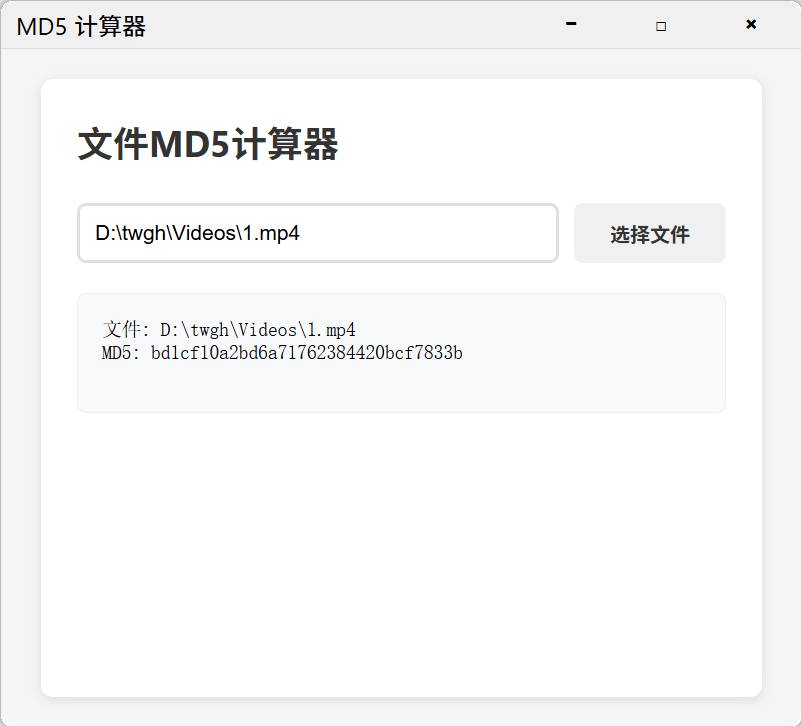
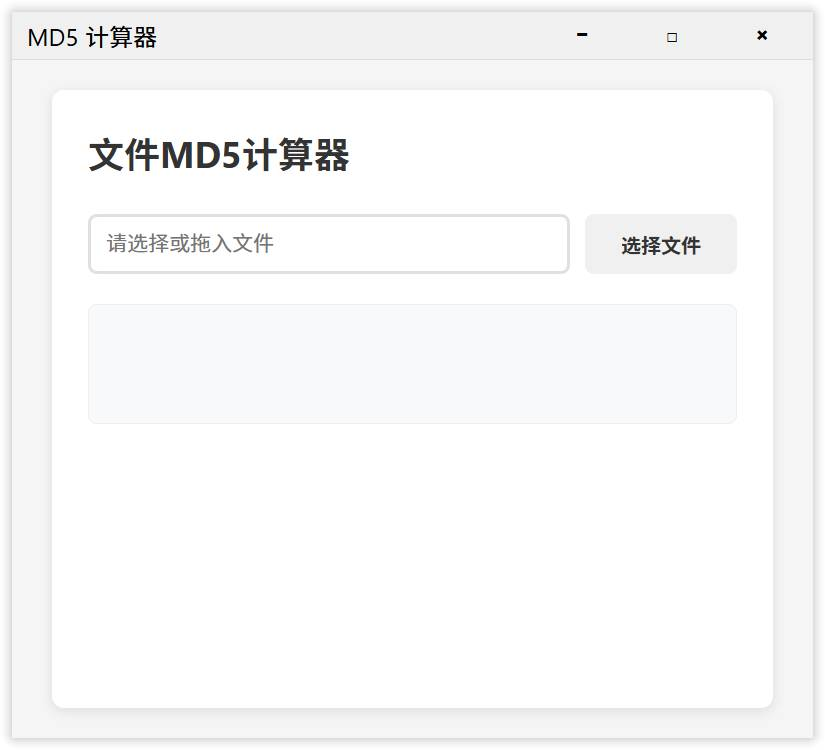
计算文件MD5

diff --git a/webview/CalcMD5/assets/CalcMD5.html b/webview/CalcMD5/assets/CalcMD5.html
@@ -11,9 +11,9 @@
 <div id="title-bar">
     <div>MD5 计算器</div>
     <div id="window-controls">
-        <button class="window-btn" onclick="go.minimizeWindow()">−</button>
-        <button class="window-btn" onclick="go.toggleMaximize()">□</button>
-        <button class="window-btn close" onclick="go.closeWindow()">×</button>
+        <button class="window-btn" onclick="wnd.minimize()">−</button>
+        <button class="window-btn" onclick="wnd.toggleMaximize()">□</button>
+        <button class="window-btn close" onclick="wnd.close()">×</button>
     </div>
 </div>
 

diff --git a/webview/CalcMD5/assets/CalcMD5.css b/webview/CalcMD5/assets/CalcMD5.css
@@ -10,8 +10,6 @@ body {
     height: 100vh;
     display: flex;
     flex-direction: column;
-    border-radius: 8px;
-    overflow: hidden;
 }
 
 /* 自定义标题栏 */
@@ -23,11 +21,9 @@ body {
     align-items: center;
     padding: 0 10px;
     border-bottom: 1px solid #ddd;
-    user-select: none;
     -webkit-user-select: none; /* 禁用文本选择 */
+    user-select: none;
     app-region: drag; /* 可拖动 */
-    border-top-left-radius: 8px;
-    border-top-right-radius: 8px;
 }
 
 #window-controls {

diff --git a/webview/CalcMD5/CalcMD5.go b/webview/CalcMD5/CalcMD5.go
@@ -1,5 +1,5 @@
 // 计算文件MD5.
-// 不使用炫彩元素, 直接使用html文件作为窗口内容, 圆角窗口.
+// 不使用炫彩元素, 直接使用html文件作为窗口内容.
 package main
 
 import (
@@ -45,18 +45,16 @@ func NewMainWindow(edg *edge.Edge) *MainWindow {
 		edge.WithXmlWindowTitle("计算文件MD5"),       // 炫彩 XML 窗口标题
 		edge.WithXmlWindowClassName("CalcMD5"),   // 炫彩 XML 窗口类名
 		edge.WithXmlWindowSize(550, 500),         // 炫彩 XML 窗口大小
-		edge.WithXmlWindowShadowAngleSize(8),     // 炫彩 XML 窗口阴影圆角大小, 设置后会使窗口变为圆角
-		edge.WithFillParent(true),                // 填充父
+		edge.WithFillParent(true),                // WebView 填充父
 		edge.WithAppDrag(true),                   // 启用非客户区域支持
 		edge.WithStatusBar(false),                // 禁用状态栏
 		edge.WithZoomControl(false),              // 禁用缩放控件
 		edge.WithDebug(isDebug),                  // 开发者工具
 		edge.WithDefaultContextMenus(isDebug),    // 上下文菜单
 		edge.WithBrowserAcceleratorKeys(isDebug), // 浏览器快捷键
-		edge.WithRoundRadius(8),                  // WebView 圆角8px
 		edge.WithAutoFocus(true),                 // 在窗口获得焦点时尝试保持 WebView 的焦点
-		// 设置默认背景色为透明
-		edge.WithDefaultBackgroundColor(edge.NewColor(255, 255, 255, 0)),
+		// 设置 WebView 默认背景色为透明
+		edge.WithDefaultBackgroundColor(edge.NewColor(0, 0, 0, 0)),
 	)
 	if err != nil {
 		wapi.MessageBoxW(0, "创建 webview 失败: "+err.Error(), "错误", wapi.MB_OK|wapi.MB_IconError)
@@ -68,8 +66,8 @@ func NewMainWindow(edg *edge.Edge) *MainWindow {
 	// 启用虚拟主机名和嵌入文件系统之间的映射
 	m.wv.EnableVirtualHostNameToEmbedFSMapping(true)
 
-	// 注册事件
-	m.regEvents()
+	// 注册 WebView 事件
+	m.regWebViewEvents()
 
 	// 绑定函数, 最好在导航之前绑定
 	m.bindBasicFuncs()
@@ -80,18 +78,22 @@ func NewMainWindow(edg *edge.Edge) *MainWindow {
 	return m
 }
 
-// 注册事件
-func (m *MainWindow) regEvents() {
+// 注册 WebView 事件
+func (m *MainWindow) regWebViewEvents() {
 	var firstLoad = true
 	// 导航完成事件
 	m.wv.Event_NavigationCompleted(func(sender *edge.ICoreWebView2, args *edge.ICoreWebView2NavigationCompletedEventArgs) uintptr {
-		uri := sender.MustGetSource()
+		uri, err := sender.GetSource()
+		if err != nil {
+			log.Println("GetSource 失败: " + err.Error())
+			return 0
+		}
 		fmt.Println("导航完成:", uri)
 
 		switch uri {
 		case edge.JoinUrlHeader(hostName) + "/CalcMD5.html":
 			// 在导航完成事件里判断第一次加载完毕时才显示窗口,
-			// 这是因为采用嵌入文件系统的方式时, 网页还没加载出来的时候, 会显示 webview 白色的背景,
+			// 这是因为采用嵌入文件系统的方式时, 网页还没加载出来的时候, 会显示 WebView 白色的背景,
 			// 然后才会加载出网页, 表现出来就是有一瞬间的闪烁, 所以等加载完再显示窗口
 			if firstLoad {
 				firstLoad = false
@@ -110,7 +112,7 @@ func (m *MainWindow) regEvents() {
 		if err != nil {
 			return 0
 		}
-		if webMessage != "drag_files" { // 这是前端传过来的
+		if webMessage != "drag_files" { // 这是前端传过来的自定义的消息
 			return 0
 		}
 
@@ -185,17 +187,17 @@ func (m *MainWindow) regEvents() {
 // bindBasicFuncs 绑定基本函数.
 func (m *MainWindow) bindBasicFuncs() {
 	// 绑定 最小化窗口函数
-	m.wv.Bind("go.minimizeWindow", func() {
+	m.wv.Bind("wnd.minimize", func() {
 		m.w.ShowWindow(xcc.SW_MINIMIZE)
 	})
 
 	// 绑定 切换最大化窗口函数
-	m.wv.Bind("go.toggleMaximize", func() {
+	m.wv.Bind("wnd.toggleMaximize", func() {
 		m.w.MaxWindow(!m.w.IsMaxWindow())
 	})
 
 	// 绑定 关闭窗口函数
-	m.wv.Bind("go.closeWindow", func() {
+	m.wv.Bind("wnd.close", func() {
 		m.w.CloseWindow()
 	})
 }
@@ -259,45 +261,18 @@ func main() {
 }
 
 func createEdge() *edge.Edge {
-	// 创建 WebView2 环境选项.
-	envOpts, err := edge.CreateEnvironmentOptions()
-	if err != nil {
-		log.Println("创建 WebView2 环境选项失败: " + err.Error())
-	} else {
-		// 获取 WebView2 环境选项5
-		envOpts5, err := envOpts.GetICoreWebView2EnvironmentOptions5()
-		if err != nil {
-			log.Println("获取环境选项5失败: " + err.Error())
-		} else {
-			// 禁用 WebView2 中的跟踪防护功能以提高运行时性能, 仅在 WebView2 中呈现已知安全的内容时可以这样做.
-			// 如果 WebView2 被用作具有任意导航功能的“完整浏览器”且需要保护最终用户隐私，那么不应禁用此属性。
-			envOpts5.SetEnableTrackingPrevention(false)
-			envOpts5.Release()
-		}
-
-		// 获取 WebView2 环境选项8
-		envOpts8, err := envOpts.GetICoreWebView2EnvironmentOptions8()
-		if err != nil {
-			log.Println("获取环境选项8失败: " + err.Error())
-		} else {
-			// 设置滚动条样式
-			envOpts8.SetScrollBarStyle(edge.COREWEBVIEW2_SCROLLBAR_STYLE_FLUENT_OVERLAY)
-			envOpts8.Release()
-		}
-	}
-
-	// 创建 webview 环境
+	// 创建 WebView 环境
 	edg, err := edge.New(edge.Option{
-		UserDataFolder:     os.TempDir(), // 自己的软件应该在固定位置创建一个自己的目录, 而不是用临时目录
-		EnvironmentOptions: envOpts,
+		UserDataFolder: os.TempDir(), // 自己的软件应该在固定位置创建一个自己的目录
+		EnvOptions: &edge.EnvOptions{
+			DisableTrackingPrevention: true, // 禁用 WebView2 中的跟踪防护功能
+			// Fluent 风格的覆盖式滚动条
+			ScrollBarStyle: edge.COREWEBVIEW2_SCROLLBAR_STYLE_FLUENT_OVERLAY,
+		},
 	})
 	if err != nil {
 		wapi.MessageBoxW(0, "创建 webview 环境失败: "+err.Error(), "错误", wapi.MB_OK|wapi.MB_IconError)
 		os.Exit(1)
-	}
-
-	if envOpts != nil { // 没用了, 直接释放
-		envOpts.Release()
 	}
 	return edg
 }
